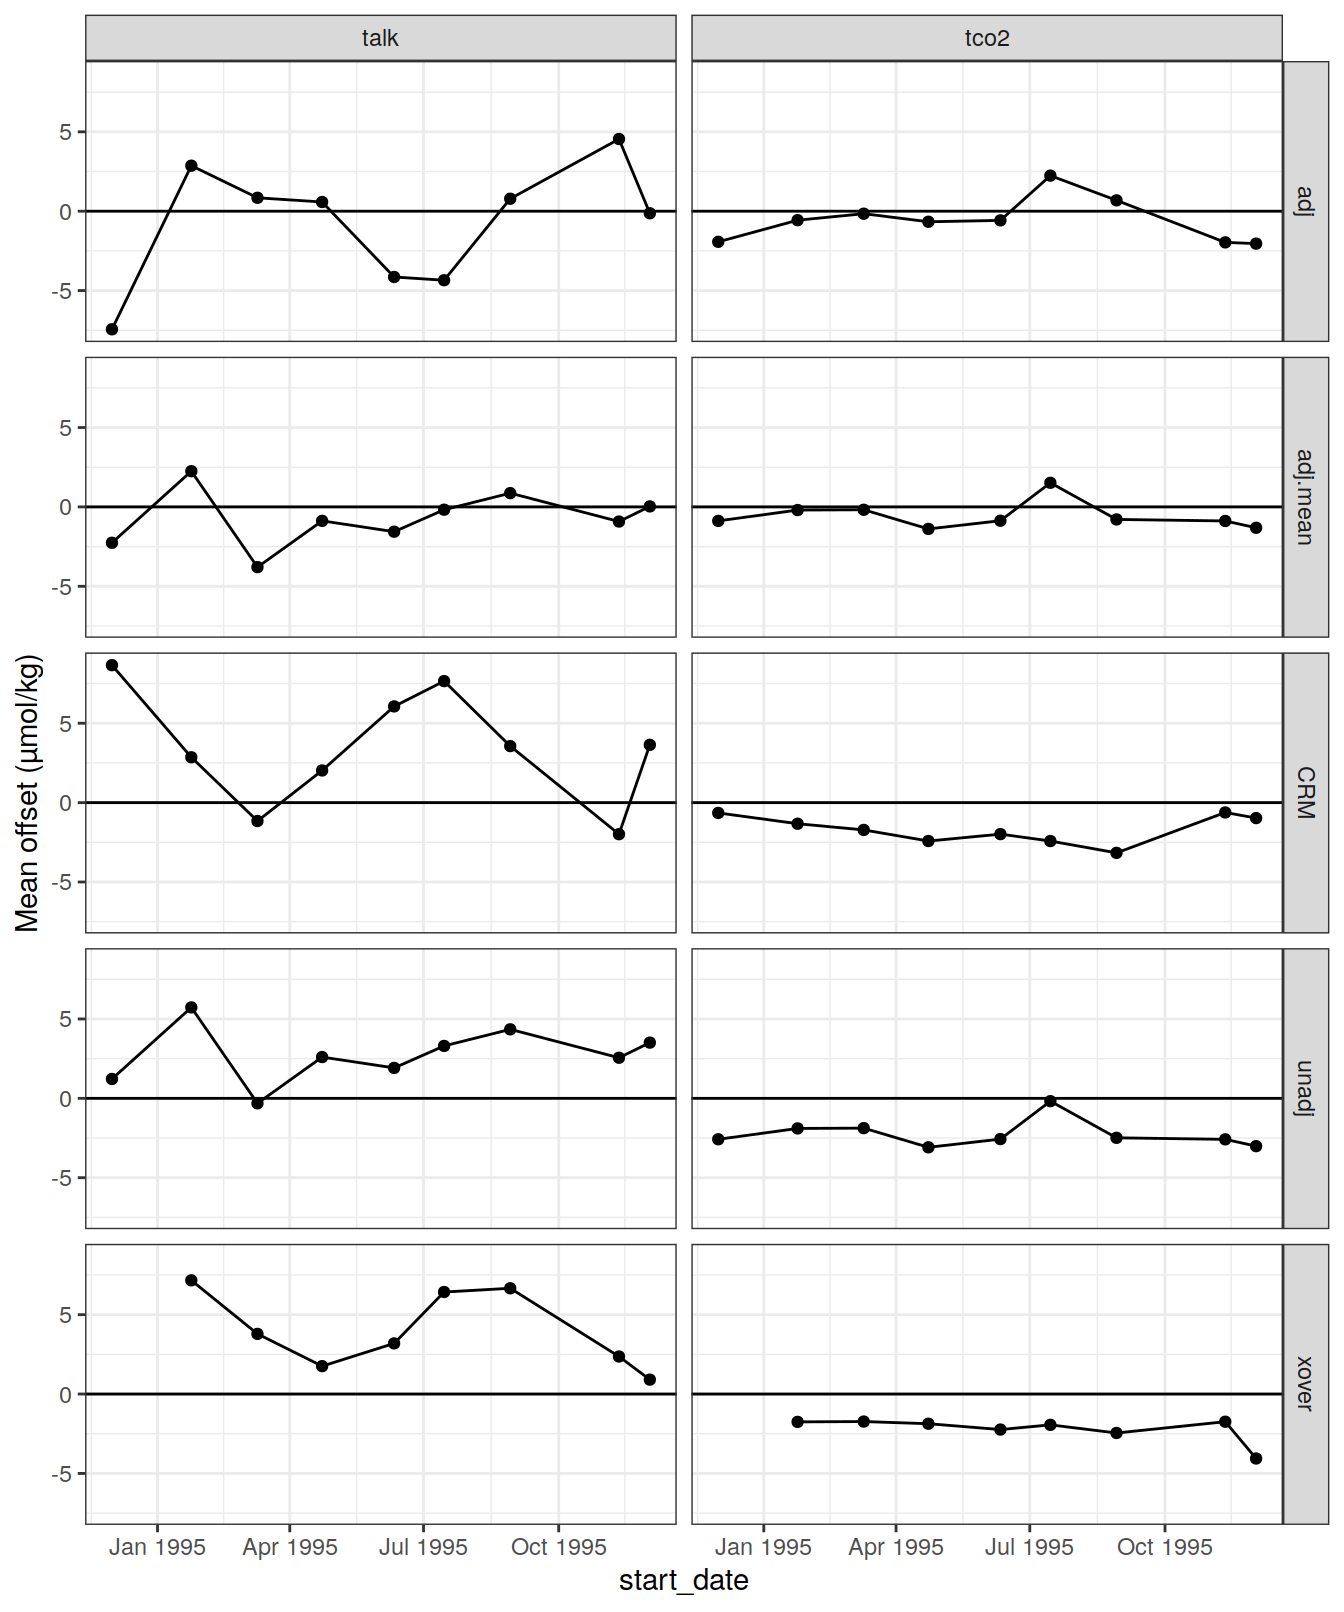
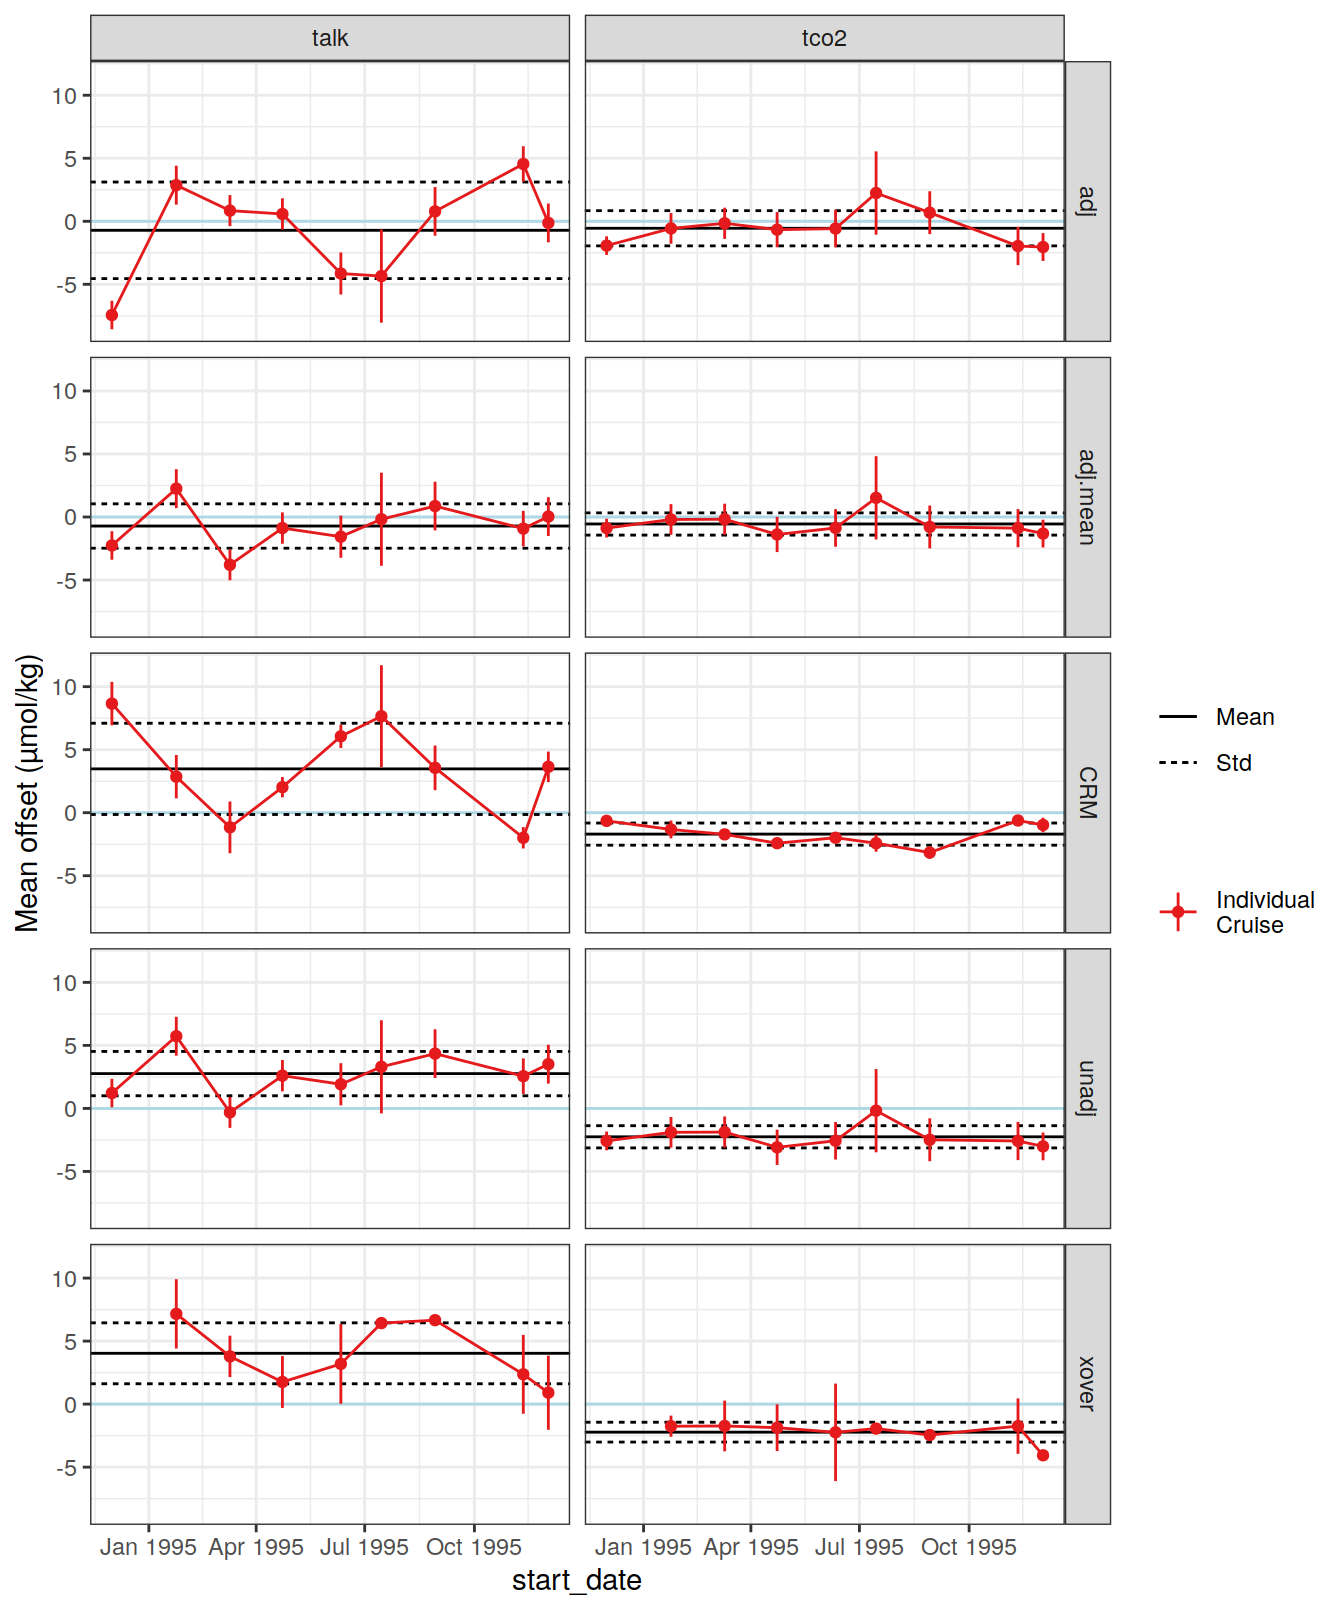
Build site.

diff --git a/docs/read_GLODAPv2_2021.html b/docs/read_GLODAPv2_2021.html
@@ -568,16 +568,16 @@ This reproducible <a href="https://rmarkdown.rstudio.com">R Markdown</a> analysi
 <div class="panel panel-default">
 <div class="panel-heading">
 <p class="panel-title">
-<a data-toggle="collapse" data-parent="#workflowr-checks" href="#strongRepositoryversionstrongahrefhttpsgithubcomjensdanielmuelleremlrobspreprocessingtreec095b2c6194f1f673e02654d53d7ca4968716845targetblankc095b2ca"> <span class="glyphicon glyphicon-ok text-success" aria-hidden="true"></span> <strong>Repository version:</strong> <a href="https://github.com/jens-daniel-mueller/emlr_obs_preprocessing/tree/c095b2c6194f1f673e02654d53d7ca4968716845" target="_blank">c095b2c</a> </a>
+<a data-toggle="collapse" data-parent="#workflowr-checks" href="#strongRepositoryversionstrongahrefhttpsgithubcomjensdanielmuelleremlrobspreprocessingtree81c37b5b8c8770c5161e4768b494d14cc526e52dtargetblank81c37b5a"> <span class="glyphicon glyphicon-ok text-success" aria-hidden="true"></span> <strong>Repository version:</strong> <a href="https://github.com/jens-daniel-mueller/emlr_obs_preprocessing/tree/81c37b5b8c8770c5161e4768b494d14cc526e52d" target="_blank">81c37b5</a> </a>
 </p>
 </div>
[2 lines of base64/hex data omitted]
 <div class="panel-body">
 <p>
 Great! You are using Git for version control. Tracking code development and connecting the code version to the results is critical for reproducibility.
 </p>
 <p>
-The results in this page were generated with repository version <a href="https://github.com/jens-daniel-mueller/emlr_obs_preprocessing/tree/c095b2c6194f1f673e02654d53d7ca4968716845" target="_blank">c095b2c</a>. See the <em>Past versions</em> tab to see a history of the changes made to the R Markdown and HTML files.
+The results in this page were generated with repository version <a href="https://github.com/jens-daniel-mueller/emlr_obs_preprocessing/tree/81c37b5b8c8770c5161e4768b494d14cc526e52d" target="_blank">81c37b5</a>. See the <em>Past versions</em> tab to see a history of the changes made to the R Markdown and HTML files.
 </p>
 <p>
 Note that you need to be careful to ensure that all relevant files for the analysis have been committed to Git prior to generating the results (you can use <code>wflow_publish</code> or <code>wflow_git_commit</code>). workflowr only checks the R Markdown file, but you know if there are other scripts or data files that it depends on. Below is the status of the Git repository when the results were generated:
@@ -626,6 +626,40 @@ Message
 </tr>
 </thead>
 <tbody>
+<tr>
+<td>
+Rmd
+</td>
+<td>
+<a href="https://github.com/jens-daniel-mueller/emlr_obs_preprocessing/blob/81c37b5b8c8770c5161e4768b494d14cc526e52d/analysis/read_GLODAPv2_2021.Rmd" target="_blank">81c37b5</a>
+</td>
+<td>
+jens-daniel-mueller
+</td>
+<td>
+2022-06-09
+</td>
+<td>
+included Nicos xover analysis for adjusted Knorr data, tested mean offset correction
+</td>
+</tr>
+<tr>
+<td>
+html
+</td>
+<td>
+<a href="https://rawcdn.githack.com/jens-daniel-mueller/emlr_obs_preprocessing/5c38b4d13d345c914a328080dc15b362afc17ed7/docs/read_GLODAPv2_2021.html" target="_blank">5c38b4d</a>
+</td>
+<td>
+jens-daniel-mueller
+</td>
+<td>
+2022-06-09
+</td>
+<td>
+Build site.
+</td>
+</tr>
 <tr>
 <td>
 Rmd
@@ -60400,14 +60434,37 @@ IO_adj &lt;- IO_adj %&gt;%
               names_prefix = &quot;offset_&quot;)
 
 
+IO_adj_stat &lt;- IO_adj %&gt;% 
+  group_by(parameter, type) %&gt;% 
+  summarise(offset_sd = sd(offset_mean, na.rm = TRUE),
+            offset_mean = mean(offset_mean, na.rm = TRUE)) %&gt;% 
+  ungroup()
+
 IO_adj %&gt;%
   ggplot(aes(start_date, offset_mean)) +
-  geom_hline(yintercept = 0) +
-  geom_point() +
-  geom_line() +
+  geom_hline(yintercept = 0, col = &quot;lightblue&quot;) +
+  geom_hline(data = IO_adj_stat,
+             aes(yintercept = offset_mean, linetype = &quot;Mean&quot;)) +
+  geom_hline(data = IO_adj_stat,
+             aes(yintercept = offset_mean + offset_sd, linetype = &quot;Std&quot;)) +
+  geom_hline(data = IO_adj_stat,
+             aes(yintercept = offset_mean - offset_sd, linetype = &quot;Std&quot;)) +
+  scale_linetype(name = &quot;&quot;) +
+  scale_color_brewer(palette = &quot;Set1&quot;,
+                     name = &quot;&quot;) +
+  # geom_ribbon(data = IO_adj_stat,
+  #            aes(ymin = offset_mean - offset_sd,
+  #                ymax = offset_mean + offset_sd,
+  #                xmin = min(IO_adj$start_date),
+  #                xmax = max(IO_adj$start_date),
+  #                fill = &quot;Std&quot;)) +
+  geom_linerange(aes(ymin = offset_mean - offset_sd,
+                     ymax = offset_mean + offset_sd,
+                     col = &quot;Individual\nCruise&quot;)) +
+  geom_point(aes(col = &quot;Individual\nCruise&quot;)) +
+  geom_line(aes(col = &quot;Individual\nCruise&quot;)) +
   facet_grid(type ~ parameter) +
-  labs(y = &quot;Mean offset (µmol/kg)&quot;) +
-  scale_color_brewer(palette = &quot;Set1&quot;)</code></pre>
+  labs(y = &quot;Mean offset (µmol/kg)&quot;)</code></pre>
 <p><img src="figure/read_GLODAPv2_2021.Rmd/xover_adj_Knorr_data-8.png" width="672" style="display: block; margin: auto;" /></p>
 <p>
 <button type="button" class="btn btn-default btn-xs btn-workflowr btn-workflowr-fig" data-toggle="collapse" data-target="#fig-xover_adj_Knorr_data-8">
@@ -60431,6 +60488,17 @@ Date
 </tr>
 </thead>
 <tbody>
+<tr>
+<td>
+<a href="https://github.com/jens-daniel-mueller/emlr_obs_preprocessing/blob/5c38b4d13d345c914a328080dc15b362afc17ed7/docs/figure/read_GLODAPv2_2021.Rmd/xover_adj_Knorr_data-8.png" target="_blank">5c38b4d</a>
+</td>
+<td>
+jens-daniel-mueller
+</td>
+<td>
+2022-06-09
+</td>
+</tr>
 <tr>
 <td>
 <a href="https://github.com/jens-daniel-mueller/emlr_obs_preprocessing/blob/0100a9c5cd9949009141664060e777c0355a3771/docs/figure/read_GLODAPv2_2021.Rmd/xover_adj_Knorr_data-8.png" target="_blank">0100a9c</a>
@@ -60489,11 +60557,7 @@ jens-daniel-mueller
 </table>
 </div>
 </div>
-<pre class="r"><code>IO_adj %&gt;% 
-  group_by(parameter, type) %&gt;% 
-  summarise(offset_sd = sd(offset_mean, na.rm = TRUE),
-            offset_mean = mean(offset_mean, na.rm = TRUE)) %&gt;% 
-  ungroup()</code></pre>
+<pre class="r"><code>IO_adj_stat</code></pre>
 <pre><code># A tibble: 10 × 4
    parameter type     offset_sd offset_mean
    &lt;chr&gt;     &lt;chr&gt;        &lt;dbl&gt;       &lt;dbl&gt;
